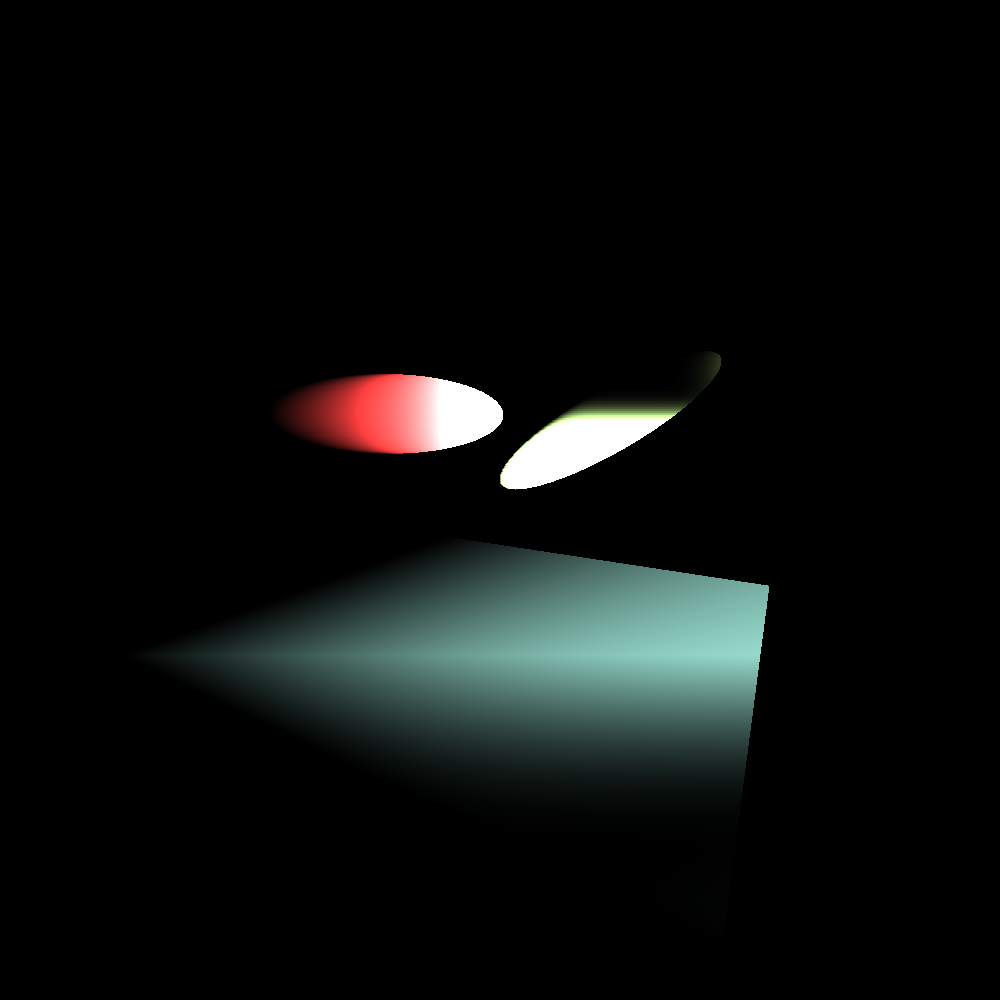
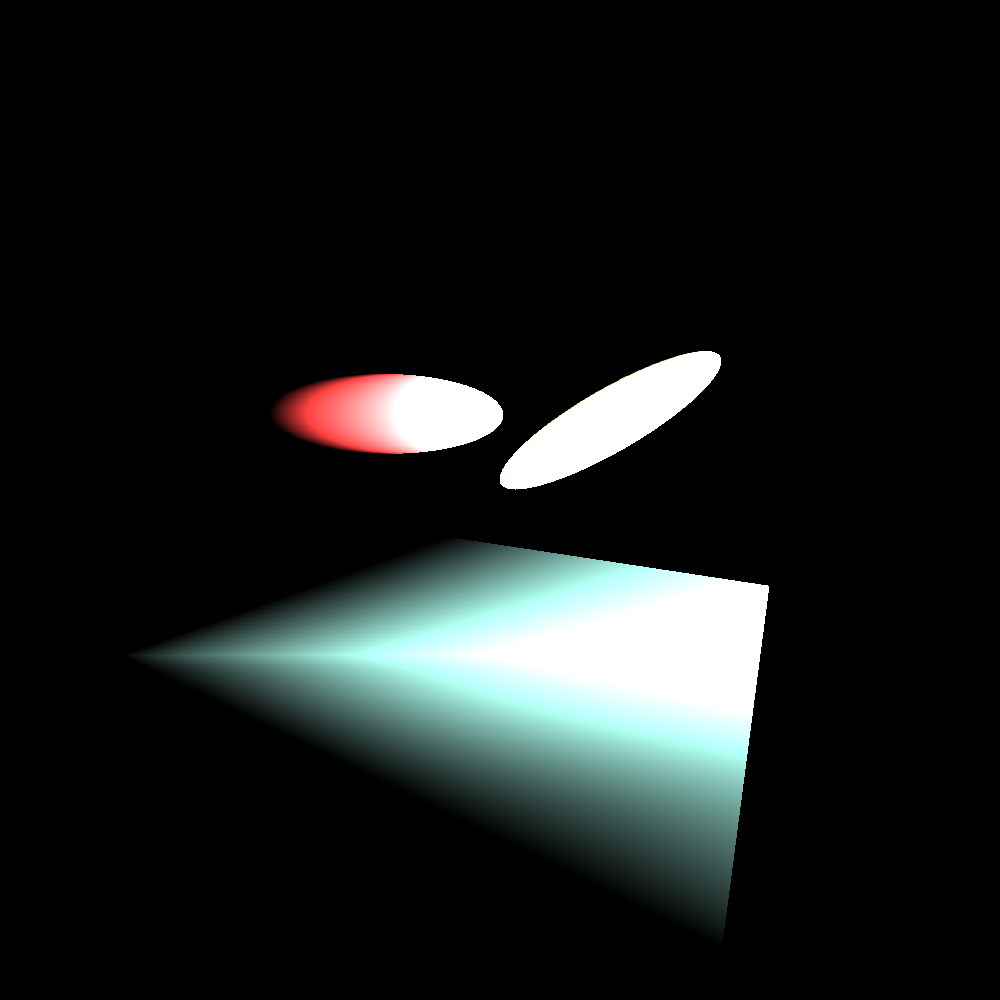
trying random shit now

Changed region(s): [[0.155, 0.527, 0.775, 0.93], [0.279, 0.372, 0.434, 0.465], [0.527, 0.341, 0.744, 0.434]]

diff --git a/RayTracer.c b/RayTracer.c
@@ -314,9 +314,9 @@ void rayTrace(struct ray3D *ray, int depth, struct colourRGB *col, struct object
 					//printf("intersected!!!");
 					rtShade(obj, &p, &n, ray, depth, a, b, &I);
 					
-					col->R += I.R;//obj->col.R;
-					col->G += I.G;//obj->col.G;
-					col->B += I.B;//obj->col.B;
+					col->R = I.R*obj->col.R;
+					col->G = I.G*obj->col.G;
+					col->B = I.B*obj->col.B;
 					//printf("RGB %f, %f, %f\n", col->R, col->G, col->B);
 					
 				}else{ //don't color the shadow
